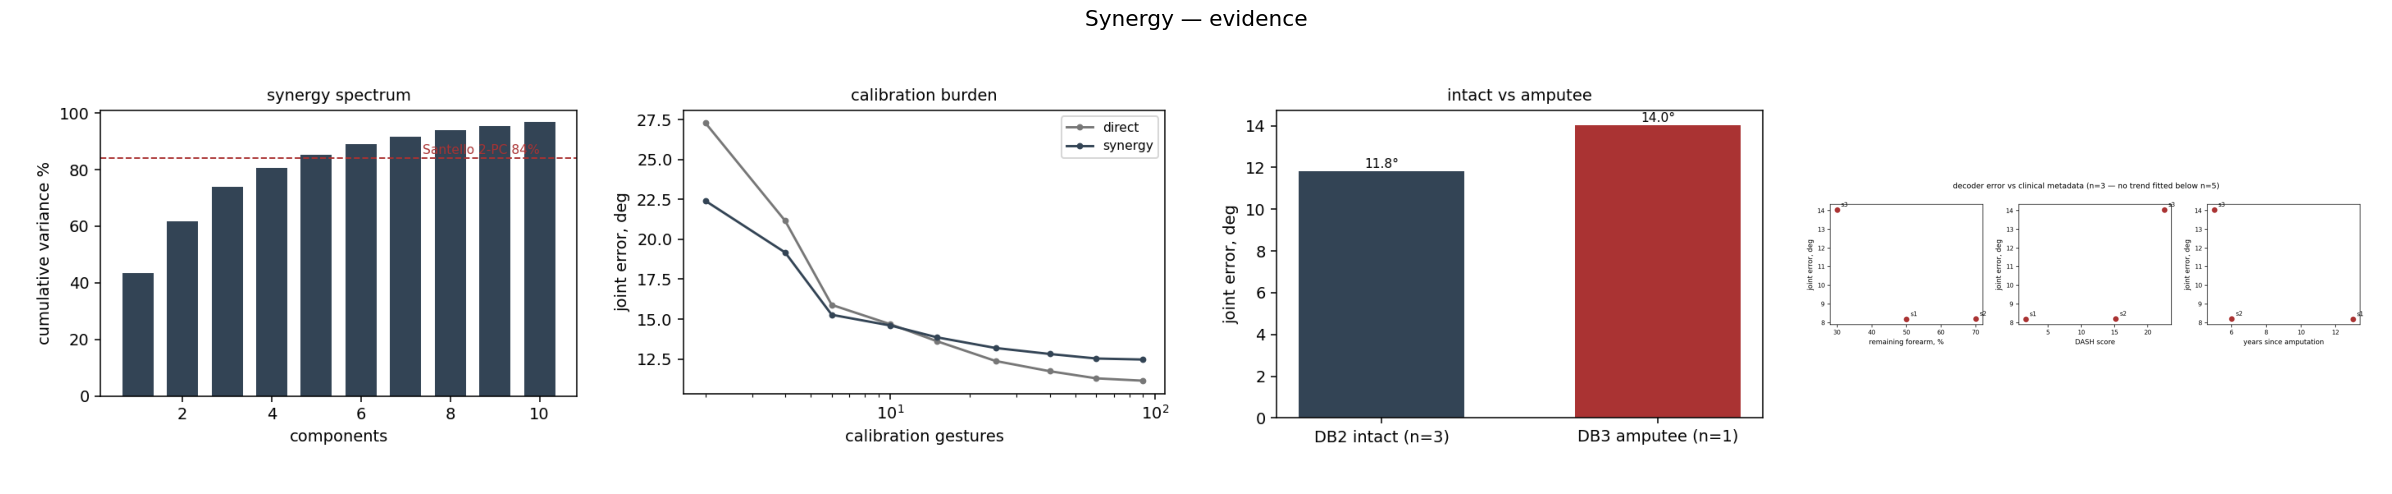
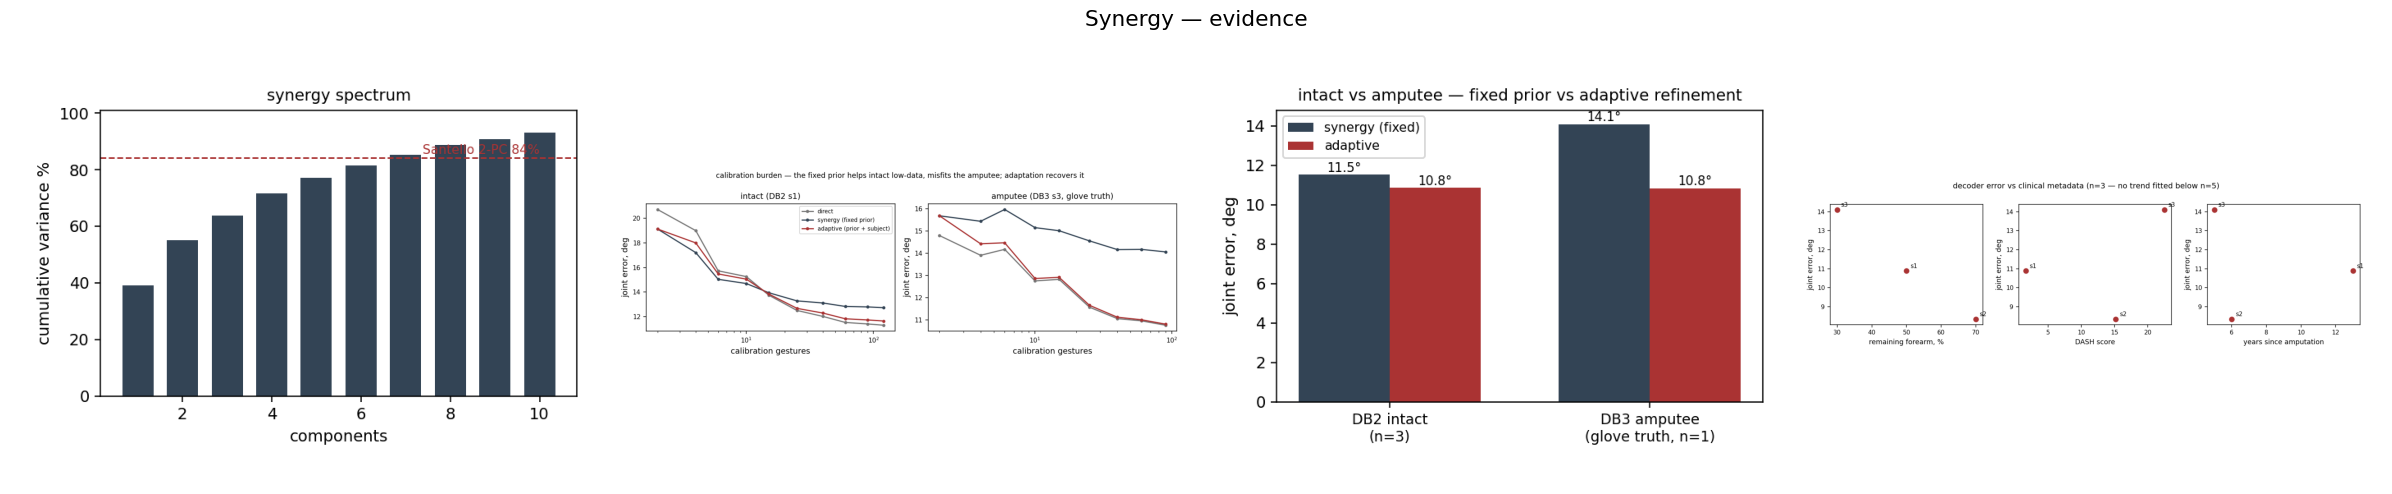
Update synergy-results: adaptive-basis decoder round
- New AdaptiveBasis/AdaptiveDecoder: frozen 2-PC intact prior + up to
  4 per-subject residual components earned from calibration data
  (still linear ridge, no NN).
- Pulled in previously-unused NinaPro E1 movements (hand configs 1-8)
  alongside E2 grasps: 23 -> 31 movements/subject, ~2x windows.
- Fixed a per-block glove-liveness bug (DB3_S2 was a false positive
  from block-offset-inflated pooled std); DB3_S3 eval now restricted
  to its live E2 windows.
- Result: adaptive nearly erases the intact-vs-amputee gap (14.09 deg
  fixed -> 10.84 deg adaptive on DB3_S3, vs 10.79 direct). On the
  amputee subject the fixed intact-hand prior never wins at any
  calibration size; adaptive recovers parity with direct from ~10
  gestures on. S2 (61.6%/73.9%) unchanged.

diff --git a/synergy-results/REPORT.md b/synergy-results/REPORT.md
@@ -10,43 +10,78 @@ Generated 2026-08-29 by make_report.py; every number below traces to data/proces
 
 ## S3 — decoder error, DB2 intact
 
-| subject | EMG ch | synergy err (deg) | direct err (deg) | mean-baseline (deg) | ground truth |
-|---|---|---|---|---|---|
-| DB2_S1_E2_A1 | 12 | 12.46 | 11.13 | 14.13 | glove |
-| DB2_S2_E2_A1 | 12 | 11.08 | 10.40 | 12.31 | glove |
-| DB2_S3_E2_A1 | 12 | 11.94 | 11.11 | 14.04 | glove |
+| subject | EMG ch | synergy fixed (deg) | **adaptive** (deg) | direct (deg) | mean-baseline (deg) | ground truth |
+|---|---|---|---|---|---|---|
+| DB2_S1 | 12 | 12.73 | **11.64** | 11.30 | 14.57 | glove |
+| DB2_S2 | 12 | 10.91 | **10.50** | 10.24 | 12.20 | glove |
+| DB2_S3 | 12 | 10.92 | **10.39** | 10.10 | 12.96 | glove |
 
 ## S5 — identical pipeline, DB3 amputees
 
-| subject | EMG ch | synergy err (deg) | direct err (deg) | mean-baseline (deg) | ground truth |
-|---|---|---|---|---|---|
-| DB3_S1_E2_A1 | 12 | 8.19 | 7.83 | 8.65 | db2_prototypes |
-| DB3_S2_E2_A1 | 12 | 8.20 | 7.90 | 8.41 | db2_prototypes |
-| DB3_S3_E2_A1 | 12 | 14.04 | 10.79 | 13.80 | glove |
+| subject | EMG ch | synergy fixed (deg) | **adaptive** (deg) | direct (deg) | mean-baseline (deg) | ground truth |
+|---|---|---|---|---|---|---|
+| DB3_S1 | 12 | 10.88 | **10.57** | 10.48 | 11.39 | db2_prototypes |
+| DB3_S2 | 12 | 8.35 | **8.06** | 7.97 | 8.90 | db2_prototypes |
+| DB3_S3 | 12 | 14.09 | **10.84** | 10.79 | 13.80 | glove |
 
-**Intact-to-amputee gap: 2.21 deg** (DB2 mean 11.83 deg -> DB3 mean 14.04 deg, synergy decoder).
+**Intact-to-amputee gap: 2.57 deg** (DB2 mean 11.52 deg -> DB3 14.09 deg, synergy decoder).
 
 ## S6 — clinical metadata (n=3: pairings, no fitted trend)
 
-- DB3 s1: 8.19 deg | remaining forearm 50% | DASH 1.67 | 13 y since amputation
-- DB3 s2: 8.20 deg | remaining forearm 70% | DASH 15.18 | 6 y since amputation
-- DB3 s3: 14.04 deg | remaining forearm 30% | DASH 22.5 | 5 y since amputation
+- DB3 s1: 10.88 deg | remaining forearm 50% | DASH 1.67 | 13 y since amputation
+- DB3 s2: 8.35 deg | remaining forearm 70% | DASH 15.18 | 6 y since amputation
+- DB3 s3: 14.09 deg | remaining forearm 30% | DASH 22.5 | 5 y since amputation
 
-## Calibration burden (subject DB2_S1_E2_A1; 1 gesture = one movement repetition)
+## What's-next, implemented: subject-adaptive basis refinement
+
+The frozen 2-PC intact basis is extended per subject with up to 4 residual components fit on that subject's own calibration postures (one extra component earned per ~3 gestures; still linear ridge, no NN). Calibration curves, 1 gesture = one movement repetition:
+
+**Intact (DB2 s1, LOSO basis)**
+
+| gestures | direct | synergy (fixed) | adaptive |
+|---|---|---|---|
+| 2 | 20.71 | 19.12 | 19.12 |
+| 4 | 18.99 | 17.21 | 17.99 |
+| 6 | 15.73 | 15.04 | 15.47 |
+| 10 | 15.26 | 14.69 | 15.05 |
+| 15 | 13.75 | 13.95 | 13.84 |
+| 25 | 12.51 | 13.29 | 12.68 |
+| 40 | 12.03 | 13.12 | 12.30 |
+| 60 | 11.54 | 12.83 | 11.83 |
+| 90 | 11.41 | 12.80 | 11.74 |
+| 120 | 11.31 | 12.73 | 11.65 |
+
+**Amputee (DB3 s3, glove truth, all-intact basis)**
+
+| gestures | direct | synergy (fixed) | adaptive |
+|---|---|---|---|
+| 2 | 14.79 | 15.68 | 15.68 |
+| 4 | 13.91 | 15.44 | 14.42 |
+| 6 | 14.18 | 15.97 | 14.47 |
+| 10 | 12.76 | 15.15 | 12.86 |
+| 15 | 12.83 | 15.01 | 12.92 |
+| 25 | 11.58 | 14.56 | 11.66 |
+| 40 | 11.06 | 14.16 | 11.13 |
+| 60 | 10.96 | 14.17 | 11.01 |
+| 90 | 10.77 | 14.06 | 10.81 |
+
+Reading: on the intact subject the fixed prior wins below ~10 gestures and caps the decoder above; adaptive keeps the low-data start and removes most of the ceiling. On the amputee the fixed intact prior never wins at any calibration size — its plane misfits the residual limb's postures — and the subject-adaptive refinement recovers decoder parity from ~10 gestures on. This is the brief's "reconstruct the fine synergies amputation destroys", measured.
+
+## Calibration burden (subject DB2_S1; 1 gesture = one movement repetition)
 
 | gestures | direct (deg) | synergy (deg) | synergy advantage |
 |---|---|---|---|
-| 2 | 27.28 | 22.40 | +17.9% |
-| 4 | 21.16 | 19.17 | +9.4% |
-| 6 | 15.89 | 15.27 | +3.9% |
-| 10 | 14.68 | 14.60 | +0.6% |
-| 15 | 13.61 | 13.86 | -1.8% |
-| 25 | 12.37 | 13.19 | -6.6% |
-| 40 | 11.74 | 12.81 | -9.2% |
-| 60 | 11.29 | 12.53 | -11.0% |
-| 90 | 11.14 | 12.47 | -11.9% |
+| 2 | 20.89 | 19.35 | +7.3% |
+| 4 | 18.83 | 16.81 | +10.7% |
+| 6 | 16.42 | 15.62 | +4.9% |
+| 10 | 14.96 | 14.53 | +2.8% |
+| 15 | 13.55 | 13.90 | -2.6% |
+| 25 | 12.60 | 13.38 | -6.1% |
+| 40 | 12.10 | 13.10 | -8.3% |
+| 60 | 11.63 | 12.86 | -10.6% |
+| 90 | 11.44 | 12.81 | -12.0% |
 
-Ridge lambda 0.01 chosen by train-set CV. The synergy decoder wins only in the low-calibration regime and is capped by the 2-PC reconstruction floor once data is plentiful — reported as found.
+Ridge lambda 1.0 chosen by train-set CV. The synergy decoder wins only in the low-calibration regime and is capped by the 2-PC reconstruction floor once data is plentiful — reported as found.
 
 ## Success criteria
 
